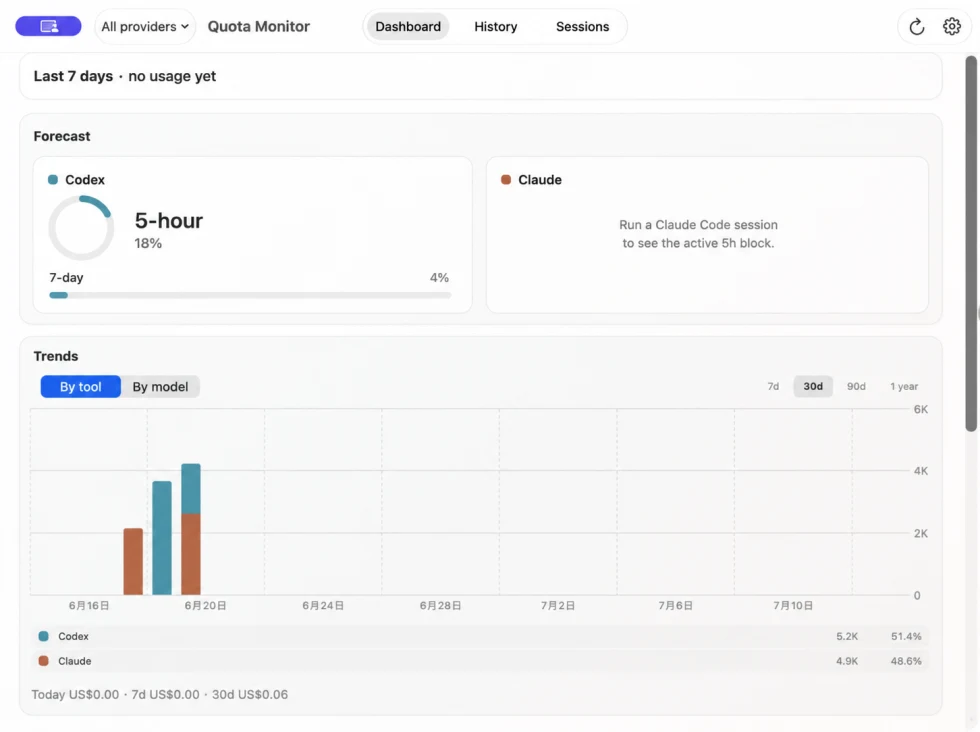
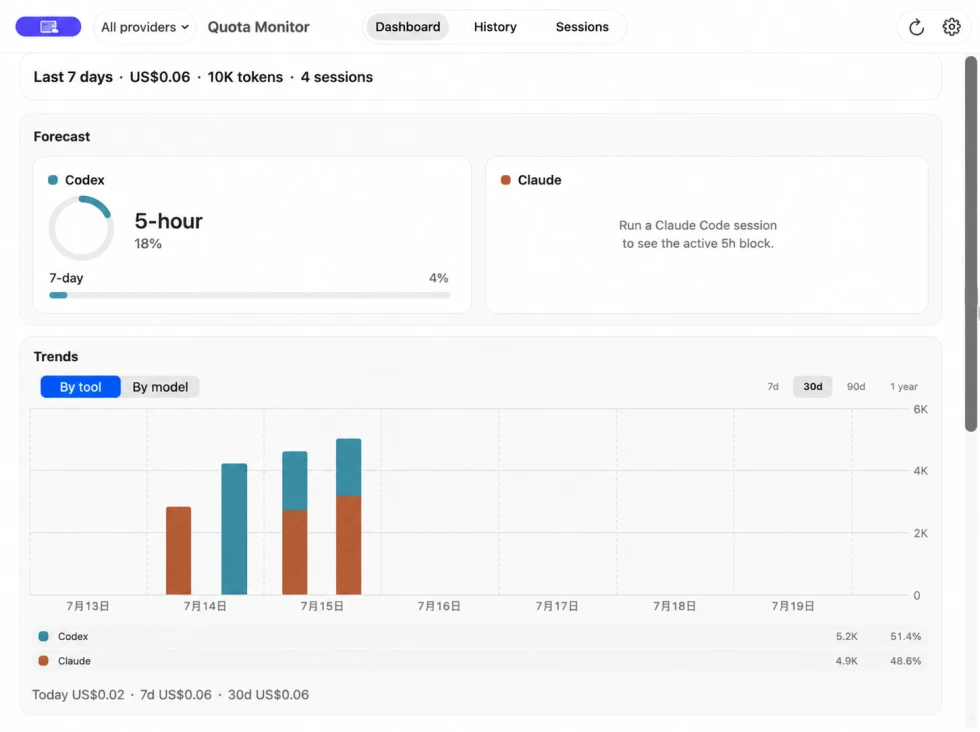
Populate website product visuals

diff --git a/website/tests/site-content.test.ts b/website/tests/site-content.test.ts
@@ -244,6 +244,8 @@ describe("public product content", () => {
         minimumBytes: 100_000,
         minimumWidth: 1_200,
         minimumHeight: 600,
[2 lines of base64/hex data omitted]
       },
       {
         path: join(publicDirectory, "assets/app-icon.png"),
@@ -256,7 +258,8 @@ describe("public product content", () => {
         minimumBytes: 20_000,
         exactWidth: 980,
         exactHeight: 732,
[3 lines of base64/hex data omitted]
         landscape: true,
       },
       {
@@ -271,6 +274,8 @@ describe("public product content", () => {
         minimumBytes: 20_000,
         exactWidth: 1_200,
         exactHeight: 630,
[2 lines of base64/hex data omitted]
         landscape: true,
       },
     ];
@@ -297,6 +302,10 @@ describe("public product content", () => {
       if ("sha256" in asset) {
         const digest = createHash("sha256").update(readFileSync(asset.path)).digest("hex");
         expect(digest, `${asset.path} approved composition`).toBe(asset.sha256);
+      }
+      if ("retiredSha256" in asset) {
+        const digest = createHash("sha256").update(readFileSync(asset.path)).digest("hex");
+        expect(digest, `${asset.path} retired composition`).not.toBe(asset.retiredSha256);
       }
       if (asset.landscape) {
         expect(dimensions.width / dimensions.height, asset.path).toBeGreaterThan(1.2);
@@ -394,6 +403,12 @@ describe("public product content", () => {
     expect(mobileCss).toMatch(/\.hero-layout[\s\S]*?grid-template-columns:\s*1fr\s*;/);
     expect(mobileCss).toMatch(/\.feature-layout[\s\S]*?grid-template-columns:\s*1fr\s*;/);
     expect(mobileCss).toMatch(/\.not-found-actions[\s\S]*?flex-direction:\s*column\s*;/);
+
+    const compactStart = css.search(/@media\s*\(max-width:\s*359px\)\s*\{/);
+    expect(compactStart, "missing below-360px responsive rules").toBeGreaterThanOrEqual(0);
+    const compactEnd = css.indexOf("@media", compactStart + 1);
+    const compactCss = css.slice(compactStart, compactEnd);
+    expect(ruleBody(compactCss, ".language-control button")).toMatch(/min-width:\s*44px\s*;/);
 
     expect(css).toMatch(/:focus-visible\s*\{[^}]*outline:\s*3px\s+solid\s+var\(--blue\)\s*;/s);
     expect(css).not.toMatch(/outline:\s*none\b/i);

diff --git a/website/public/styles.css b/website/public/styles.css
@@ -833,7 +833,7 @@ body[data-page="download-error"] .not-found {
     }
 
     .language-control button {
-        min-width: 40px;
+        min-width: 44px;
         padding: 0 5px;
     }
 